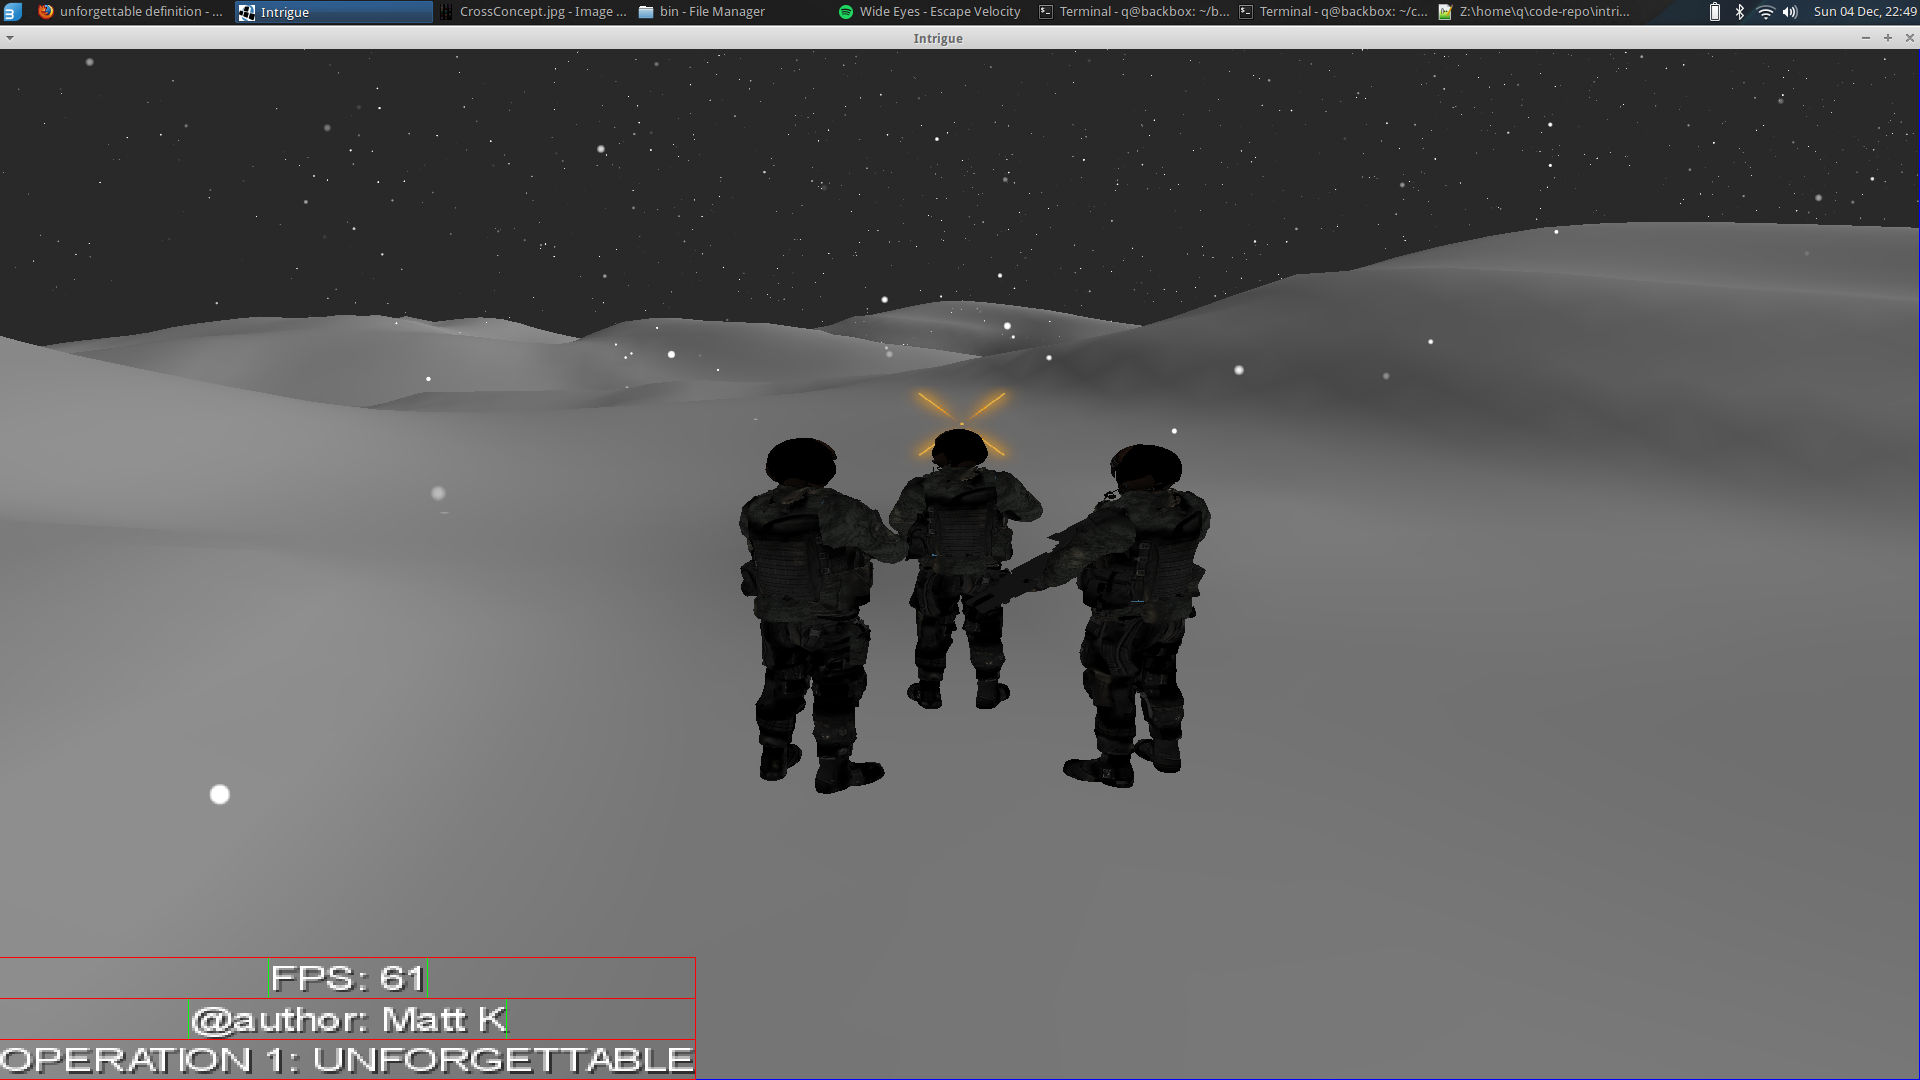
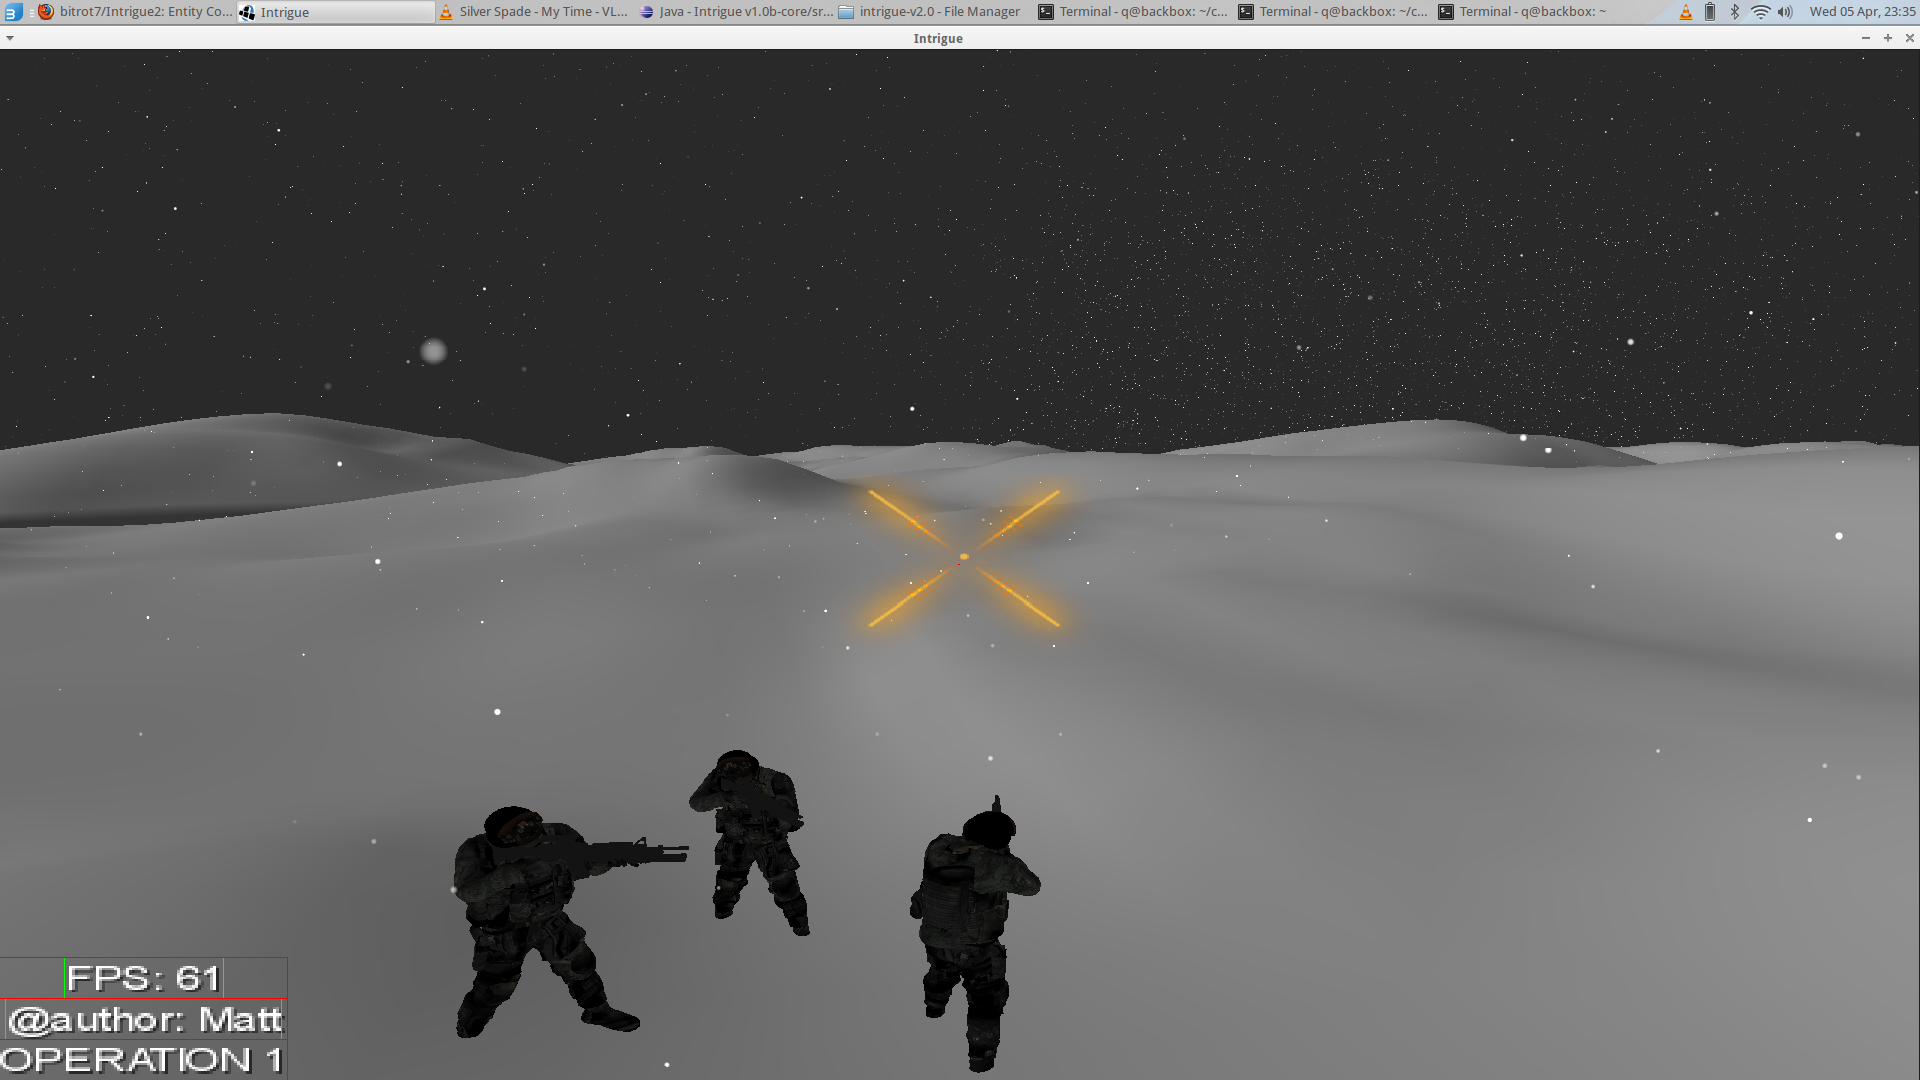
continued docs

diff --git a/core/src/com/mk/intrigue/factory/IntrigueLevelFactory.java b/core/src/com/mk/intrigue/factory/IntrigueLevelFactory.java
@@ -16,7 +16,7 @@ public class IntrigueLevelFactory<T extends DrifterEntity> {
 		int guid = Intrigue.mamaDukes.size;
 		
 		ParticleObject p = new ParticleObject("dummy", path_to_weather_fx, m_trans);
-		//p.getParticleEffect().scale(1000f, 1000f, 1000f);
+		p.getParticleEffect().scale(1000f, 1000f, 1000f);
 		return type.cast(new T.DrifterObjectBuilder(guid)
 		.BaseObject(new Entity.Builder(guid)
 			.IntrigueModelComponent(path_to_model)
@@ -35,7 +35,7 @@ public class IntrigueLevelFactory<T extends DrifterEntity> {
 	}
 	public T createLevel(String path_to_model, String path_to_weather_fx, Matrix4 m_trans, Class<T> type) {
 		ParticleObject p = new ParticleObject("dummy", path_to_weather_fx, m_trans);
-		//p.getParticleEffect().scale(1000f, 1000f, 1000f);
+		p.getParticleEffect().scale(1000f, 1000f, 1000f);
 		int guid = Intrigue.mamaDukes.size;
 		
 		return type.cast(new T.DrifterObjectBuilder(guid)

diff --git a/core/src/com/mk/intrigue/Intrigue.java b/core/src/com/mk/intrigue/Intrigue.java
@@ -99,7 +99,7 @@ public class Intrigue extends ApplicationAdapter {
 		textStyle.font = font;
 
 		text = new Label("Intrigue",textStyle);
-		Label text2 = new Label("@author: Matt K", textStyle);
+		Label text2 = new Label("@author: Matt", textStyle);
 		Label text3 = new Label("OPERATION 1", textStyle);
 		
 		text.setFontScale(1f,1f);
